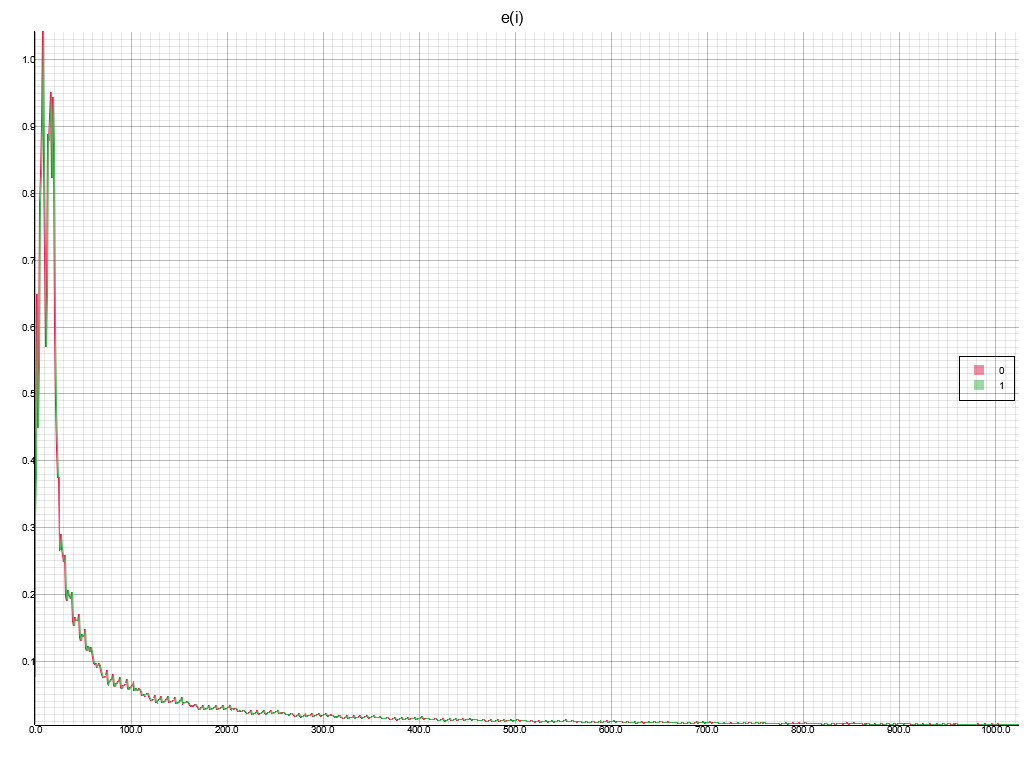
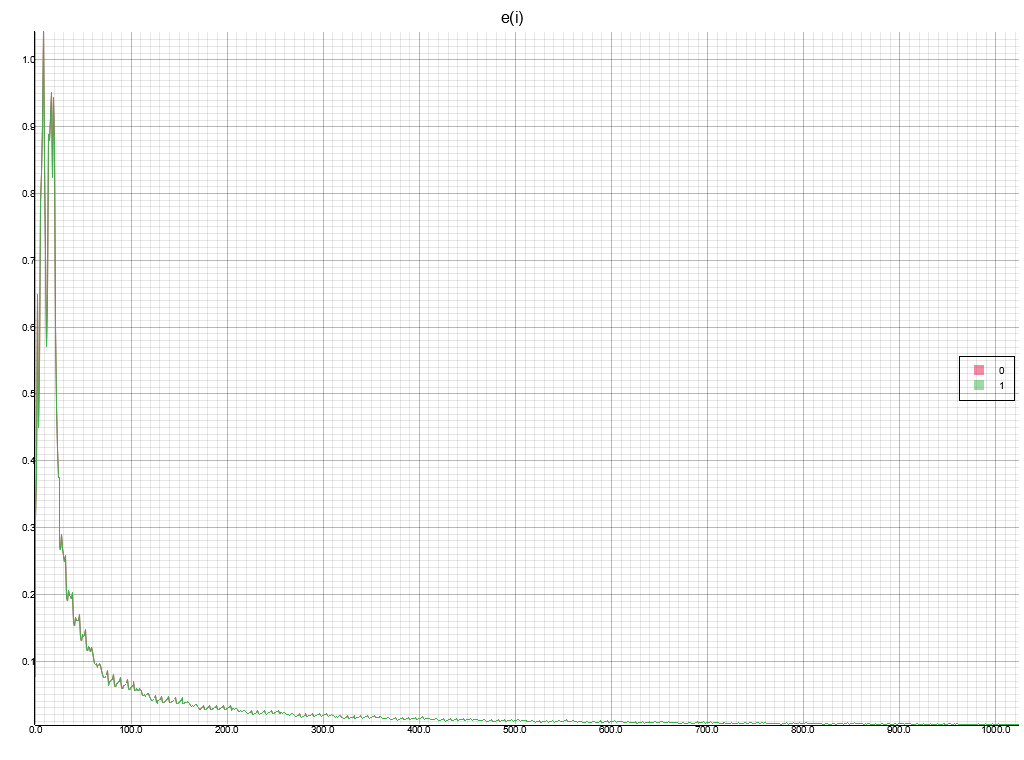
Fix ifft

Changed region(s): [[0.0312, 0.1211, 0.0625, 0.6053], [0.0625, 0.7566, 0.0938, 0.8474], [0.0938, 0.8776, 0.125, 0.9079]]

diff --git a/src/slice_math_.rs b/src/slice_math_.rs
@@ -411,8 +411,6 @@ impl<T> SliceMath<T> for [T]
             .collect();
         y.ifft();
 
-        y.reverse();
-
         y.truncate(y_len);
         
         y.into_iter()
@@ -463,7 +461,7 @@ impl<T> SliceMath<T> for [T]
     where
         T: ComplexFloat<Real: Float> + MulAssign + AddAssign + From<Complex<<T>::Real>> + Sum
     {
-        self.fft_unscaled::<false>();
+        self.fft_unscaled::<true>();
 
         self.mul_assign_all(<T as From<_>>::from(<Complex<_> as From<_>>::from(<T::Real as NumCast>::from(1.0/self.len() as f64).unwrap())));
     }
